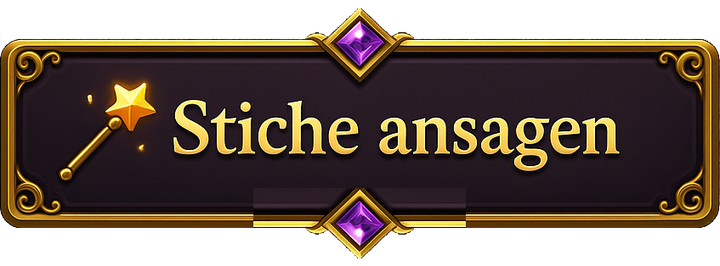
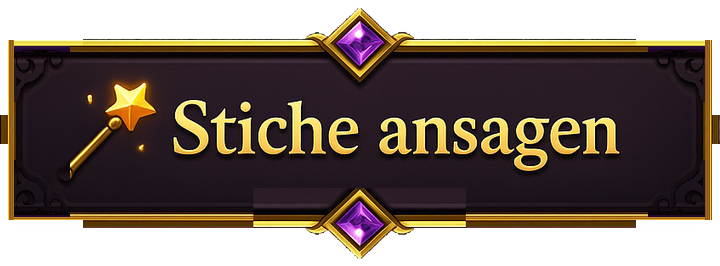
Spieltisch-Buttons: echte 90-Grad-Ecken statt abgerundeter Schnoerkel-Ecken
Die runden Ecken (inkl. Schnoerkel) pixelchirurgisch begradigt: gerade
Rahmenbaender bis in die Ecken verlaengert (Vorlagen-Spalte/-Zeile),
Schnoerkel im Panel durch zeilenweise gesampelte Panel-Farbe ersetzt
(Icon-Schutz, keine Streifen), Aussenreste gekappt. OpenAI-Guthaben war
erschoepft, daher ohne Neu-Generierung geloest. Alle vier identisch,
im Spiel verifiziert.

diff --git a/index.html b/index.html
@@ -1042,7 +1042,7 @@
   .action-dock { display: flex; justify-content: center; margin-top: 6px; min-height: 104px; align-items: center; }
   /* "Stiche ansagen": fertige Grafik (Text ist Teil des Bildes). */
   .bid-open-btn {
-    background: url('lobby/ui-bid.png?v=5') center/100% 100% no-repeat;
+    background: url('lobby/ui-bid.png?v=6') center/100% 100% no-repeat;
     border: none; box-shadow: none; color: transparent; font-size: 0; padding: 0;
     width: clamp(120px, 29vw, 224px); aspect-ratio: 720 / 266;
     display: inline-block; cursor: pointer;
@@ -1266,7 +1266,7 @@
   /* "Alle Karten": gemalte Pille als Hintergrund */
   .hand-view-btn {
     position: static; z-index: 6;
-    border: none; box-shadow: none; background: url('lobby/ui-allcards.png?v=5') center/100% 100% no-repeat;
+    border: none; box-shadow: none; background: url('lobby/ui-allcards.png?v=6') center/100% 100% no-repeat;
     color: transparent; font-size: 0; padding: 0; cursor: pointer;
     width: clamp(120px, 29vw, 224px); aspect-ratio: 720 / 266; display: inline-block;
   }
@@ -1308,8 +1308,8 @@
     background: center/100% 100% no-repeat;
     width: clamp(150px, 45vw, 300px); aspect-ratio: 720 / 266;
   }
-  .nav-btn.nav-leave { background-image: url('lobby/nav-leave.png?v=4'); }
-  .nav-btn.nav-pause { background-image: url('lobby/nav-pause.png?v=4'); }
+  .nav-btn.nav-leave { background-image: url('lobby/nav-leave.png?v=5'); }
+  .nav-btn.nav-pause { background-image: url('lobby/nav-pause.png?v=5'); }
   .nav-btn:hover { filter: brightness(1.08); }
 
   /* Endstand-Rangliste (Spielende) */
